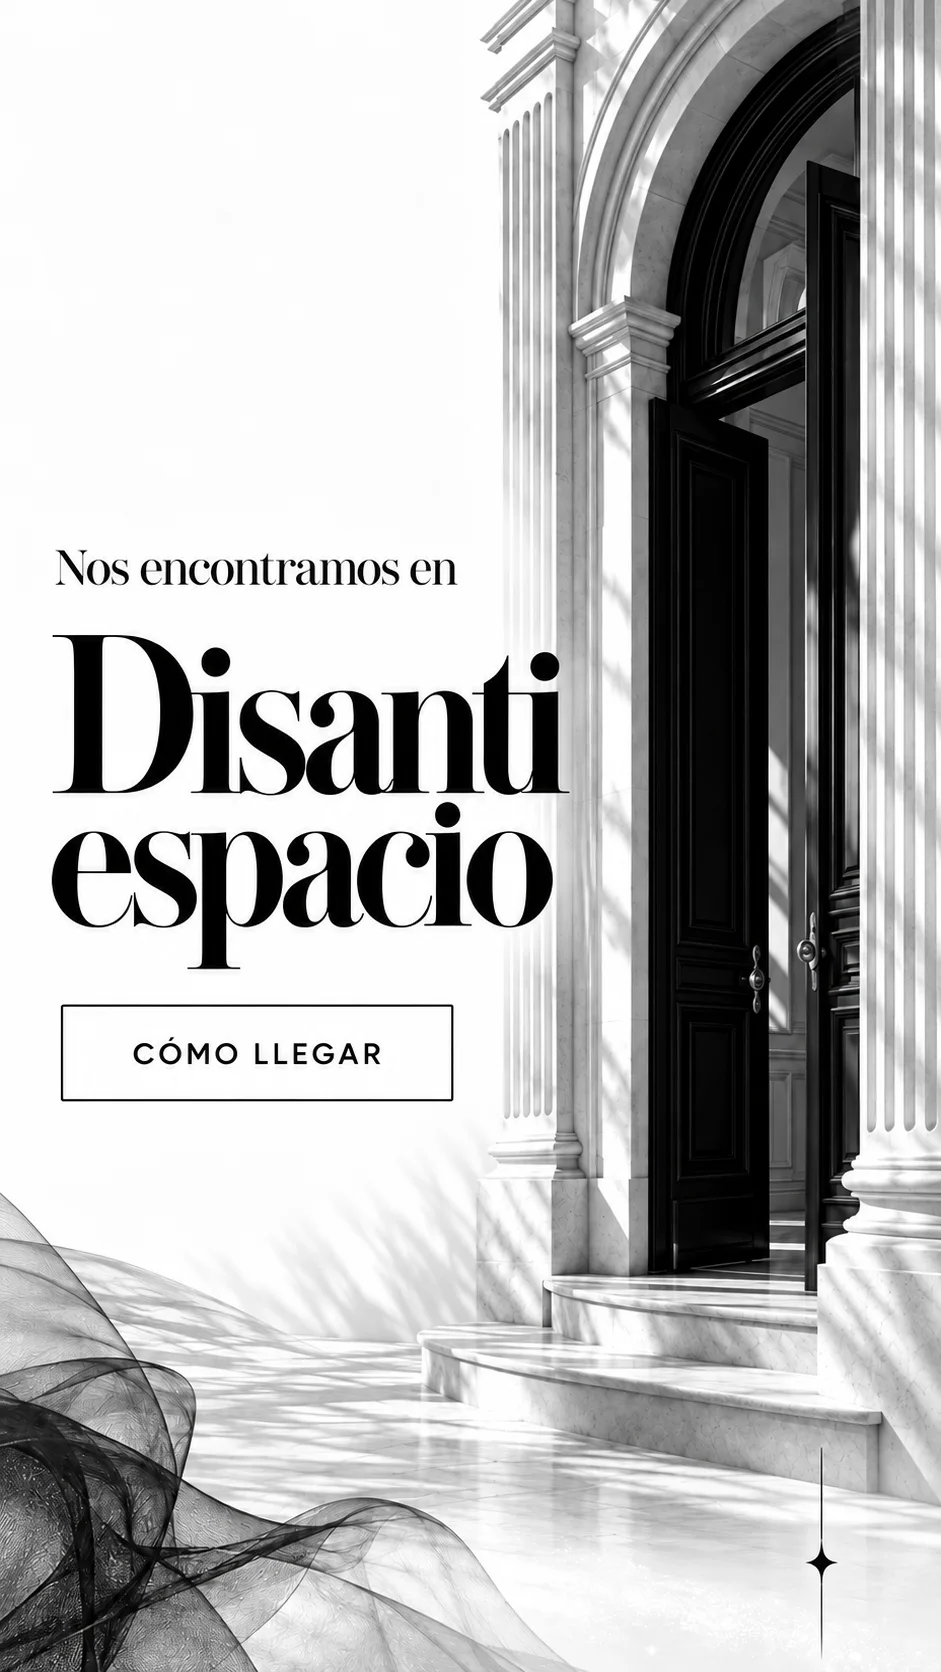
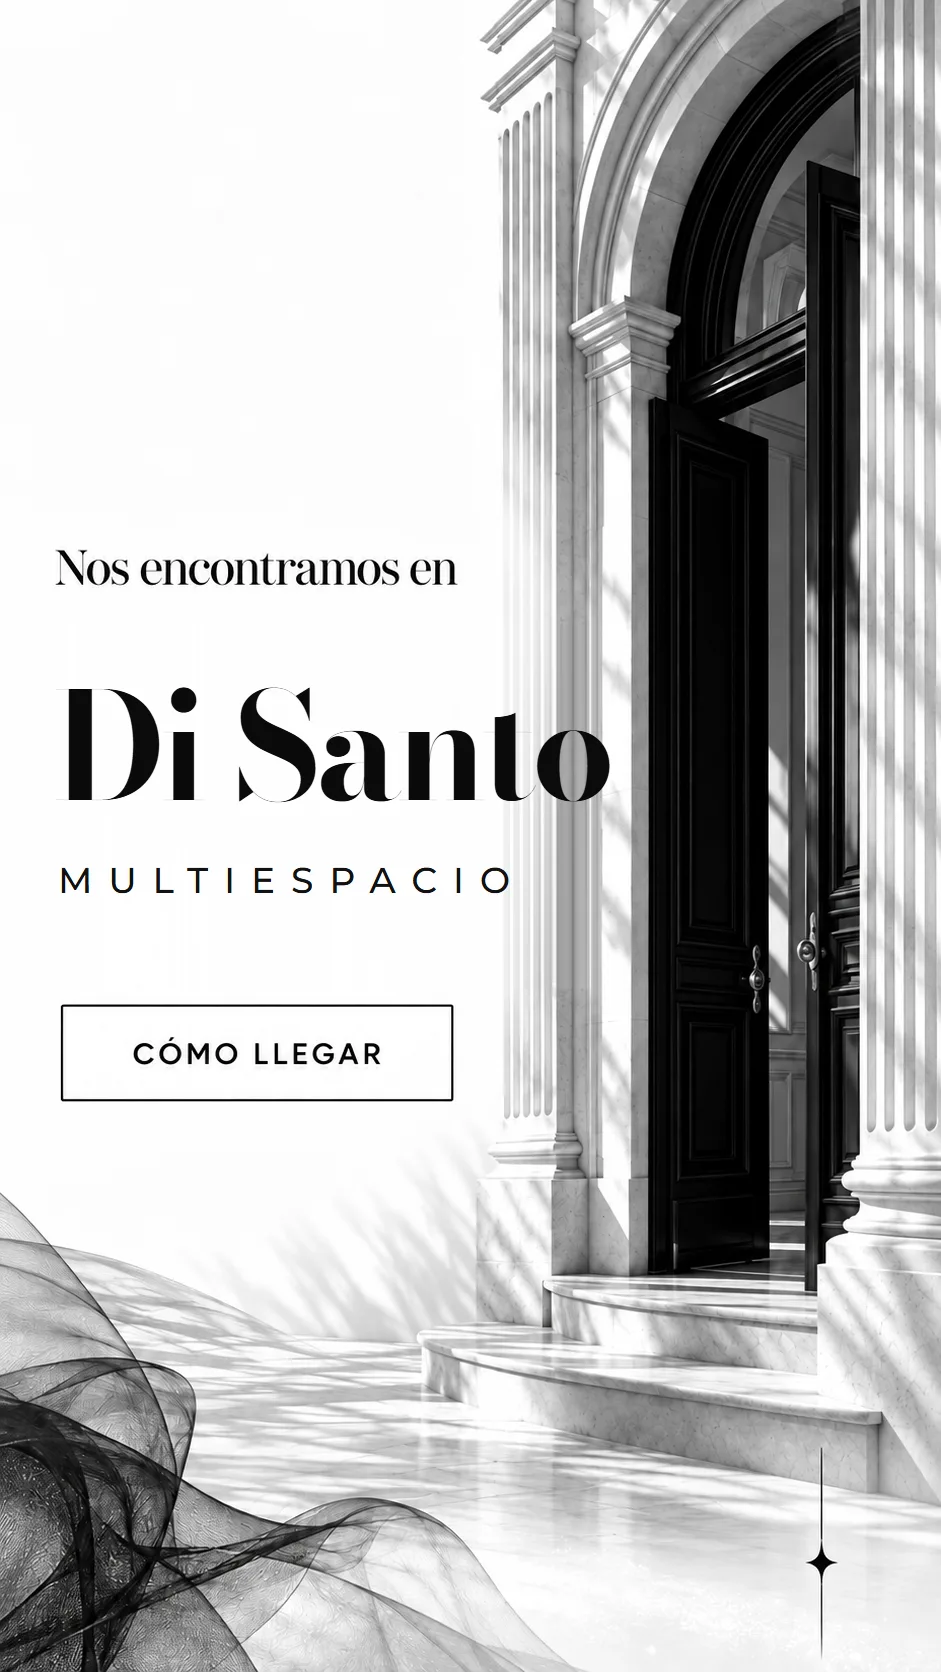
Salón Di Santo Multiespacio y regalos sin alias en la versión de amigos

Changed region(s): [[0.0616, 0.3732, 0.6472, 0.5909]]

diff --git a/amigos/index.html b/amigos/index.html
@@ -39,7 +39,7 @@
       href="https://fonts.googleapis.com/css2?family=Bodoni+Moda:ital,opsz,wght@0,6..96,400;0,6..96,500;1,6..96,400&family=Montserrat:wght@400;500&display=swap"
     />
     <link rel="preload" as="image" href="../assets/portada.webp" fetchpriority="high" />
-    <link rel="stylesheet" href="../styles.css?v=20261102-1" />
+    <link rel="stylesheet" href="../styles.css?v=20261102-2" />
   </head>
   <body class="intro-is-open">
     <div class="invitation-intro" role="dialog" aria-modal="true" aria-label="Bienvenida a los XV de Felicitas">
@@ -149,7 +149,7 @@
         <h2 id="map-title" class="sr-only">Cómo llegar</h2>
         <img
           src="../assets/como-llegar.webp"
-          alt="Nos encontramos en Disanti espacio"
+          alt="Nos encontramos en Di Santo Multiespacio"
           width="941"
           height="1672"
           loading="lazy"
@@ -173,15 +173,12 @@
       <section class="panel panel--gifts" aria-labelledby="gifts-title">
         <h2 id="gifts-title" class="sr-only">Regalos</h2>
         <img
-          src="../assets/regalos.webp"
-          alt="Regalos. Tu presencia es lo más importante. Ver más"
+          src="../assets/regalos-felicitas.webp"
+          alt="Regalos. Tu presencia es mi mejor regalo"
           width="941"
           height="1672"
           loading="lazy"
         />
-        <button id="openGiftsModal" class="hotspot hotspot--gifts" type="button">
-          <span class="sr-only">Ver datos para regalo</span>
-        </button>
       </section>
 
       <section class="panel panel--bloomkeep" aria-labelledby="bloomkeep-title">
@@ -300,66 +297,38 @@
       </footer>
     </main>
 
-    <!-- TODO: dirección exacta de Disanti espacio y links de Maps/Waze. -->
     <dialog id="mapModal" class="info-modal" aria-labelledby="map-modal-title">
       <div class="info-modal__card">
         <button class="info-modal__close" type="button" data-close-modal aria-label="Cerrar">×</button>
         <span class="info-modal__star" aria-hidden="true"></span>
         <p class="info-modal__kicker">CÓMO LLEGAR</p>
-        <h3 id="map-modal-title" class="info-modal__title">Disanti espacio</h3>
+        <h3 id="map-modal-title" class="info-modal__title">Di Santo Multiespacio</h3>
         <p class="info-modal__text">Dirección a confirmar</p>
         <div class="info-modal__actions">
           <a
             class="info-modal__button"
-            href="https://www.google.com/maps/search/?api=1&amp;query=Disanti%20espacio"
+            href="https://www.google.com/maps/search/?api=1&amp;query=Di%20Santo%20Multiespacio"
             target="_blank"
             rel="noreferrer"
           >GOOGLE MAPS</a>
           <a
             class="info-modal__button"
-            href="https://www.waze.com/ul?q=Disanti%20espacio&amp;navigate=yes"
+            href="https://www.waze.com/ul?q=Di%20Santo%20Multiespacio&amp;navigate=yes"
             target="_blank"
             rel="noreferrer"
           >WAZE</a>
+          <a
+            class="info-modal__button"
+            href="https://www.facebook.com/Di-Santo-MultiEspacio-1205341569567933/"
+            target="_blank"
+            rel="noreferrer"
+          >VER EN FACEBOOK</a>
           <button
             class="info-modal__button"
             type="button"
-            data-copy="Disanti espacio"
+            data-copy="Di Santo Multiespacio"
             data-copy-message="Dirección copiada"
           >COPIAR DIRECCIÓN</button>
-        </div>
-        <p class="modal-toast" aria-live="polite"></p>
-      </div>
-    </dialog>
-
-    <dialog id="giftsModal" class="info-modal" aria-labelledby="gifts-modal-title">
-      <div class="info-modal__card">
-        <button class="info-modal__close" type="button" data-close-modal aria-label="Cerrar">×</button>
-        <span class="info-modal__star" aria-hidden="true"></span>
-        <p class="info-modal__kicker">REGALOS</p>
-        <h3 id="gifts-modal-title" class="info-modal__title">Datos para tu regalo</h3>
-        <p class="info-modal__text">Si querés hacerme un regalo, podés hacerlo a esta cuenta.</p>
-        <dl class="info-modal__data">
-          <div>
-            <dt>ALIAS</dt>
-            <dd>feli.guez</dd>
-          </div>
-          <div>
-            <dt>TITULAR</dt>
-            <dd>Felicitas Rodriguez</dd>
-          </div>
-          <div>
-            <dt>ENTIDAD</dt>
-            <dd>Mercado Pago</dd>
-          </div>
-        </dl>
-        <div class="info-modal__actions">
-          <button
-            class="info-modal__button"
-            type="button"
-            data-copy="feli.guez"
-            data-copy-message="Alias copiado"
-          >COPIAR ALIAS</button>
         </div>
         <p class="modal-toast" aria-live="polite"></p>
       </div>
@@ -378,7 +347,7 @@
     </button>
     <audio id="invitationAudio" src="../assets/musica.mp3" loop preload="metadata"></audio>
 
-    <script src="../script.js?v=20261102-1"></script>
+    <script src="../script.js?v=20261102-2"></script>
     <script src="../assets/invitation-personalization.js?v=20261102-1"></script>
   </body>
 </html>

diff --git a/index.html b/index.html
@@ -39,7 +39,7 @@
       href="https://fonts.googleapis.com/css2?family=Bodoni+Moda:ital,opsz,wght@0,6..96,400;0,6..96,500;1,6..96,400&family=Montserrat:wght@400;500&display=swap"
     />
     <link rel="preload" as="image" href="assets/portada.webp" fetchpriority="high" />
-    <link rel="stylesheet" href="styles.css?v=20261102-1" />
+    <link rel="stylesheet" href="styles.css?v=20261102-2" />
   </head>
   <body class="intro-is-open">
     <div class="invitation-intro" role="dialog" aria-modal="true" aria-label="Bienvenida a los XV de Felicitas">
@@ -149,7 +149,7 @@
         <h2 id="map-title" class="sr-only">Cómo llegar</h2>
         <img
           src="assets/como-llegar.webp"
-          alt="Nos encontramos en Disanti espacio"
+          alt="Nos encontramos en Di Santo Multiespacio"
           width="941"
           height="1672"
           loading="lazy"
@@ -300,31 +300,36 @@
       </footer>
     </main>
 
-    <!-- TODO: dirección exacta de Disanti espacio y links de Maps/Waze. -->
     <dialog id="mapModal" class="info-modal" aria-labelledby="map-modal-title">
       <div class="info-modal__card">
         <button class="info-modal__close" type="button" data-close-modal aria-label="Cerrar">×</button>
         <span class="info-modal__star" aria-hidden="true"></span>
         <p class="info-modal__kicker">CÓMO LLEGAR</p>
-        <h3 id="map-modal-title" class="info-modal__title">Disanti espacio</h3>
+        <h3 id="map-modal-title" class="info-modal__title">Di Santo Multiespacio</h3>
         <p class="info-modal__text">Dirección a confirmar</p>
         <div class="info-modal__actions">
           <a
             class="info-modal__button"
-            href="https://www.google.com/maps/search/?api=1&amp;query=Disanti%20espacio"
+            href="https://www.google.com/maps/search/?api=1&amp;query=Di%20Santo%20Multiespacio"
             target="_blank"
             rel="noreferrer"
           >GOOGLE MAPS</a>
           <a
             class="info-modal__button"
-            href="https://www.waze.com/ul?q=Disanti%20espacio&amp;navigate=yes"
+            href="https://www.waze.com/ul?q=Di%20Santo%20Multiespacio&amp;navigate=yes"
             target="_blank"
             rel="noreferrer"
           >WAZE</a>
+          <a
+            class="info-modal__button"
+            href="https://www.facebook.com/Di-Santo-MultiEspacio-1205341569567933/"
+            target="_blank"
+            rel="noreferrer"
+          >VER EN FACEBOOK</a>
           <button
             class="info-modal__button"
             type="button"
-            data-copy="Disanti espacio"
+            data-copy="Di Santo Multiespacio"
             data-copy-message="Dirección copiada"
           >COPIAR DIRECCIÓN</button>
         </div>
@@ -378,7 +383,7 @@
     </button>
     <audio id="invitationAudio" src="assets/musica.mp3" loop preload="metadata"></audio>
 
-    <script src="script.js?v=20261102-1"></script>
+    <script src="script.js?v=20261102-2"></script>
     <script src="assets/invitation-personalization.js?v=20261102-1"></script>
   </body>
 </html>

diff --git a/script.js b/script.js
@@ -99,7 +99,8 @@ async function copyText(button) {
 }
 
 document.querySelector("#openMapModal").addEventListener("click", () => openModal(mapModal));
-document.querySelector("#openGiftsModal").addEventListener("click", () => openModal(giftsModal));
+// La versión de amigos no tiene datos de regalo, por eso el botón puede no estar.
+document.querySelector("#openGiftsModal")?.addEventListener("click", () => openModal(giftsModal));
 
 document.querySelectorAll("[data-close-modal]").forEach((button) => {
   button.addEventListener("click", () => closeModal(button.closest("dialog")));
@@ -109,7 +110,7 @@ document.querySelectorAll("[data-copy]").forEach((button) => {
   button.addEventListener("click", () => copyText(button));
 });
 
-[mapModal, giftsModal].forEach((modal) => {
+[mapModal, giftsModal].filter(Boolean).forEach((modal) => {
   modal.addEventListener("close", syncModalState);
   modal.addEventListener("click", (event) => {
     if (event.target === modal) closeModal(modal);
